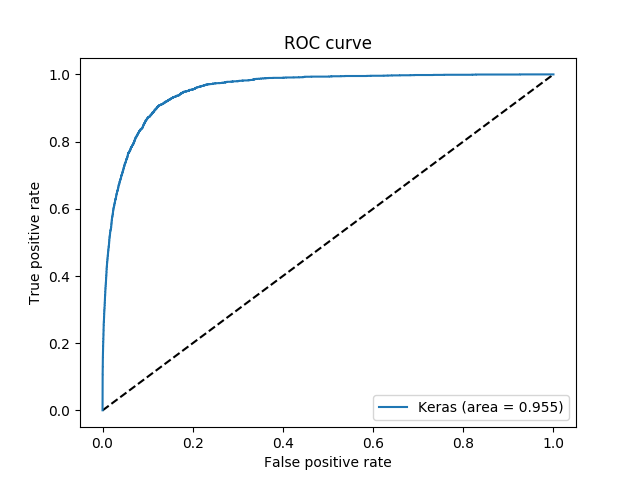
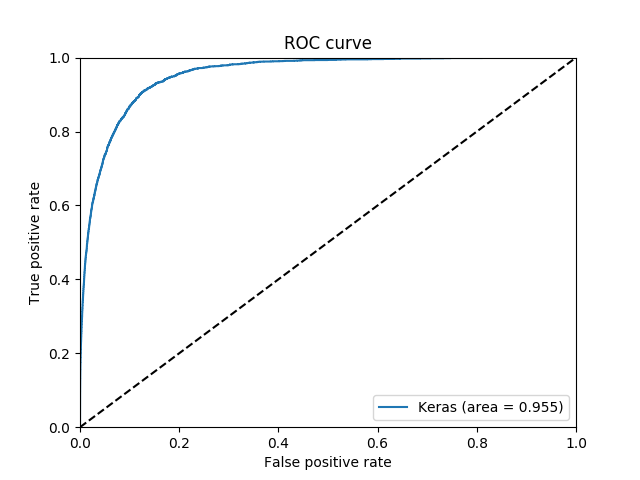
goes

diff --git a/lstm.py b/lstm.py
@@ -60,5 +60,7 @@ if xx:
     plt.ylabel('True positive rate')
     plt.title('ROC curve')
     plt.legend(loc='best')
+    plt.xlim(0,1)
+    plt.ylim(0,1)
     #plt.show()
-plt.savefig("out/stat/keras.roc.png")
+    plt.savefig("out/stat/keras.roc.png")
